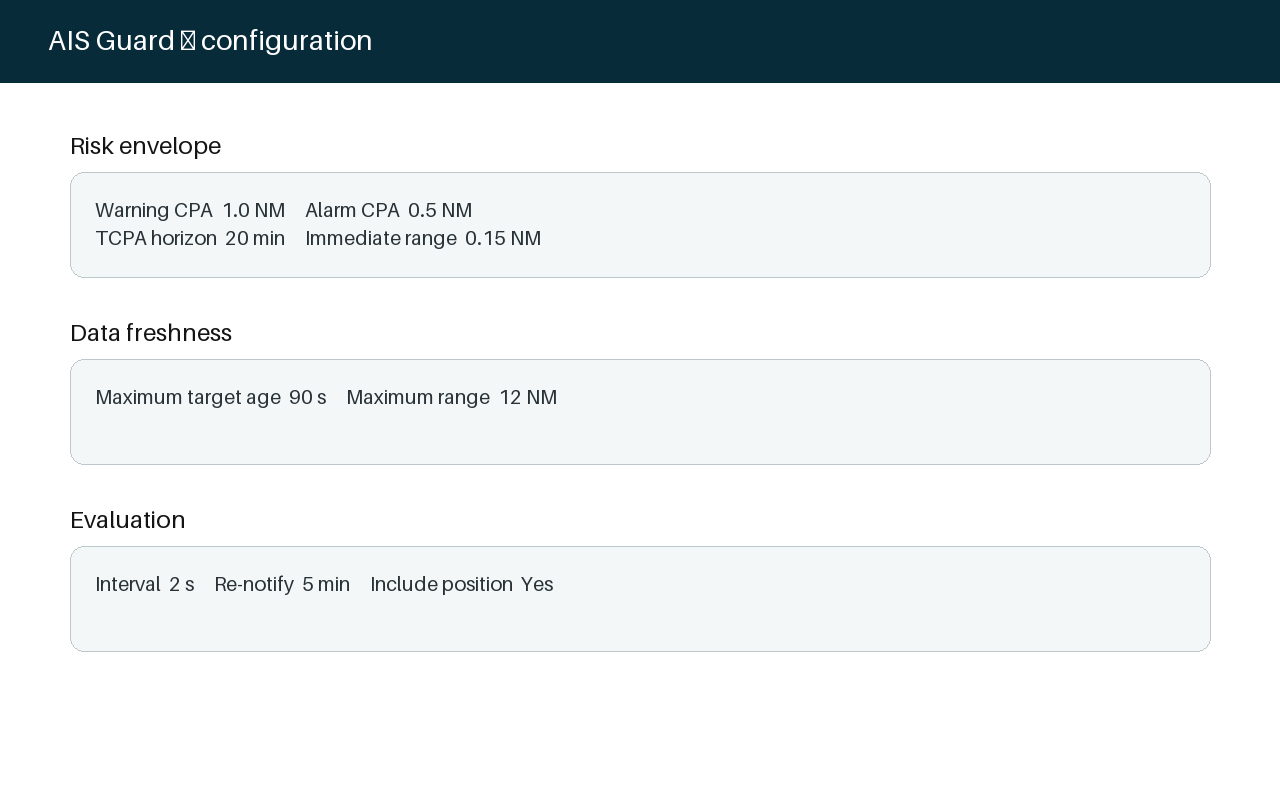
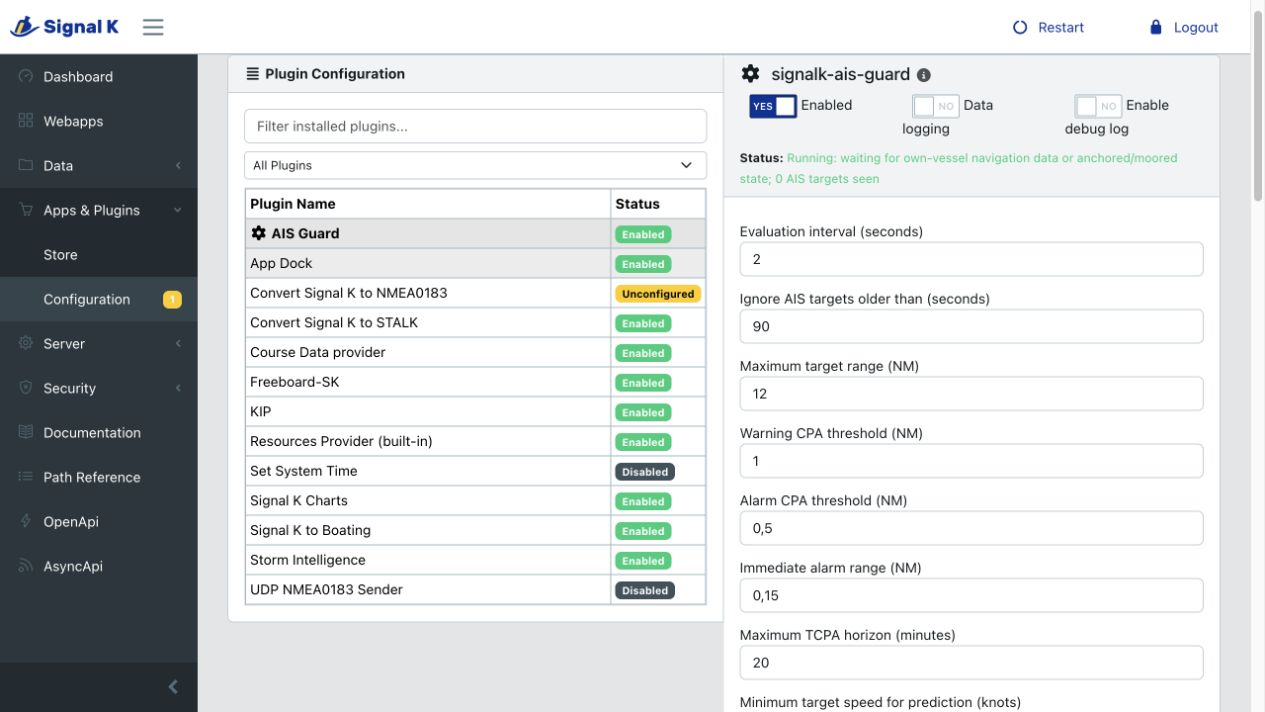
Improve documentation diagrams and screenshots

diff --git a/docs/architecture.md b/docs/architecture.md
@@ -8,7 +8,25 @@ Runtime dependencies remain zero. `plugin/index.js` owns the Signal K lifecycle,
 
 ## Data flow
 
-`Signal K deltas -> bounded vessel histories -> analytical CPA/TCPA + registered AGTPI predictors -> common risk classifier -> majority ensemble -> notifications/API -> WebApp + Plotter Extension + ResourceSet overlay`
+```mermaid
+flowchart LR
+  SK[Signal K vessel deltas] --> Fresh{Navigation fresh?}
+  Fresh -- no --> Unknown[Abstain / unknown]
+  Fresh -- yes --> Hist[Bounded vessel histories]
+  Hist --> CPA[Analytical CPA/TCPA]
+  Hist --> Pred[Registered AGTPI predictors]
+  CPA --> Common[Common threshold classifier]
+  Pred --> Norm[Validate, normalize, confidence gate]
+  Norm --> Common
+  Common --> Vote[Ordinal majority and quorum]
+  Vote -- no quorum or no majority --> CPA
+  Vote --> Risk[Final advisory risk]
+  CPA --> Risk
+  Risk --> Notify[Managed Signal K notifications]
+  Risk --> API[Read-only targets API]
+  API --> Web[Companion WebApp]
+  API --> Plotter[Plotter Extension and ResourceSet]
+```
 
 Own vessel and AIS contacts consume `navigation.position`, `navigation.speedOverGround`, and `navigation.courseOverGroundTrue`. Own vessel additionally consumes `navigation.anchor.state`, `navigation.anchor.position`, selected anchor-watch metadata, and `navigation.state` so collision guarding remains operational in anchored/moored station-keeping modes. Identity metadata (`name`, `mmsi`) is presentation-only. Navigation freshness is derived from navigation observation timestamps, not identity updates.
 
@@ -56,6 +74,16 @@ Any numerical change to a predictor requires a predictor-version change when sem
 
 The `research/` tree is intentionally outside the Signal K runtime but imports predictor modules directly from `plugin/predictors/`. The offline flow is:
 
-`source AIS -> explicit mapping/unit normalization -> canonical JSONL -> validation/statistics -> causal encounter cases -> group-level split -> production AGTPI predictors -> trajectory/risk metrics -> provenance manifest`.
+```mermaid
+flowchart LR
+  Source[Source AIS] --> Map[Versioned field and unit mapping]
+  Map --> Canon[Canonical JSONL observations]
+  Canon --> Validate[Validation and statistics]
+  Validate --> Cases[Causal encounter cases]
+  Cases --> Split[Group-level deterministic split]
+  Split --> Production[Production AGTPI predictors]
+  Production --> Metrics[Trajectory and risk metrics]
+  Metrics --> Manifest[Provenance manifest and checksums]
+```
 
 This prevents research-only copies of predictor mathematics from drifting away from operational code. Dataset adapters and evaluation code may evolve independently of the plugin lifecycle, while predictor identity/version and AGTPI report semantics remain shared. Research outputs are artifacts, not plugin state, and should not be packaged as authoritative model claims without the protocol in `reproducibility.md`.

diff --git a/docs/getting_started.md b/docs/getting_started.md
@@ -2,11 +2,15 @@
 
 AIS Guard continuously evaluates AIS contacts relative to own vessel. Classical CPA/TCPA is always available; the optional predictor ensemble is disabled by default.
 
+![AIS Guard plugin configuration in Signal K](screenshots/configuration.png)
+
 A useful assessment requires fresh own-vessel and target position, SOG, and true COG. Name and MMSI are identification metadata only. Commission initially with synthetic/replay or known low-risk encounters and confirm converging, opening, stale, immediate-range, and notification-clear behavior.
 
 After validating the analytical path, enable `predictiveAiEnabled`. The default ensemble registers three AGTPI v1 predictors: constant velocity, constant turn rate, and adaptive turn/acceleration. At least `predictionMinimumVotes` eligible reports are required; otherwise the system falls back to analytical CPA/TCPA.
 
 Use the WebApp to inspect vote counts and per-predictor disagreement. Before tuning, read [Risk Model](risk_model.md), [Predictive Intelligence](predictive_intelligence.md), [Trajectory Predictor Interface](trajectory_predictor_interface.md), [Configuration](configuration.md), and [Safety](safety.md).
+
+Open the companion WebApp from the Signal K **Webapps** page. On a default local installation its URL is `http://localhost:3000/signalk-ais-guard/`; use HTTPS only when TLS is configured in front of Signal K.
 
 
 ## Using AIS Guard at anchor or on a mooring

diff --git a/docs/testing.md b/docs/testing.md
@@ -6,6 +6,12 @@ The automated suite covers plugin lifecycle/schema defaults, analytical geometry
 
 Release candidates must pass `npm ci --ignore-scripts`, `npm run build`, `npm test`, `npm run lint`, `npm audit --audit-level=high`, and `npm pack --dry-run`.
 
+## Local Signal K integration smoke test
+
+Pack the workspace with `npm pack`, install that tarball into a disposable or development Signal K instance, and restart the server. In **Apps & Plugins → Configuration**, confirm that AIS Guard is enabled, its complete schema renders, and its initial status reports that it is waiting for navigation data. Open `/signalk-ais-guard/` and exercise sort direction, risk filtering, and search; the page must continue refreshing without browser console errors. Verify `/plugins/signalk-ais-guard/targets` through the WebApp or an authenticated read-only request.
+
+The screenshots in this documentation were captured from this flow on Signal K Server 2.31.1 with Node.js 24.19.0. The default development endpoint is HTTP; `https://localhost:3000` is valid only when a TLS proxy or Signal K TLS configuration is present.
+
 ## Predictor conformance
 
 Every AGTPI predictor requires deterministic fixtures for success and abstention, finite-unit checks, confidence bounds, malformed-history handling, and evidence that input is not mutated. Predictors with learned parameters additionally require versioned model provenance and validation artifacts.

diff --git a/docs/anchor_watch_integration.md b/docs/anchor_watch_integration.md
@@ -16,6 +16,20 @@ AIS Guard also consumes `navigation.state`. Values `anchored` and `moored` are t
 
 ## Effective own-vessel model
 
+```mermaid
+flowchart TD
+  Position[Fresh own position] --> Explicit{Explicit anchored or moored evidence?}
+  Explicit -- yes --> Zero[Effective zero-speed own model]
+  Explicit -- no --> Motion{Fresh SOG and true COG?}
+  Motion -- yes --> Measured[Measured underway motion]
+  Motion -- no --> Near{Measured near-zero SOG?}
+  Near -- yes --> Zero
+  Near -- no --> Abstain[Own-vessel evidence insufficient]
+  Zero --> AIS[AIS collision assessment remains active]
+  Measured --> AIS
+  Abstain --> Unknown[Risk unknown; never inferred safe]
+```
+
 When an explicit anchored or moored state is present and `stationKeepingForceZeroOwnSpeed=true`, the collision engine evaluates incoming AIS traffic against an effective own-vessel velocity of zero at the latest own position. The course is set to a neutral numerical value because course is undefined at zero velocity and has no effect on the analytical velocity vector.
 
 For trajectory predictors, recent own-vessel history is transformed into a stationary-motion history while preserving observation times and positions. This prevents GPS-jitter SOG/COG from being interpreted as intentional own-vessel manoeuvring while retaining temporal evidence for predictor confidence calculations. Target trajectories remain unchanged.

diff --git a/docs/risk_model.md b/docs/risk_model.md
@@ -18,6 +18,20 @@ When predictive mode is enabled, each registered predictor estimates CPA/TCPA in
 
 Majority voting is categorical. The exposed median predicted CPA/TCPA does not determine risk.
 
+```mermaid
+flowchart TD
+  Reports[Normalized predictor reports] --> Gate[Keep eligible reports at or above confidence threshold]
+  Gate --> Quorum{Eligible reports meet quorum?}
+  Quorum -- no --> Fallback[Use analytical CPA/TCPA]
+  Quorum -- yes --> Alarm{Strict majority alarm?}
+  Alarm -- yes --> A[Alarm]
+  Alarm -- no --> Warn{Strict majority warn-or-alarm?}
+  Warn -- yes --> W[Warning]
+  Warn -- no --> None{Strict majority none?}
+  None -- yes --> N[None]
+  None -- no --> Fallback
+```
+
 ## Validity limits
 
 Analytical CPA/TCPA assumes constant velocity. Built-in predictors relax selected assumptions but remain extrapolations of observed motion. Majority voting cannot compensate for common-mode input errors or correlated model assumptions. A clear result therefore means only that the configured criteria were not satisfied by the admissible evidence at that instant.

diff --git a/README.md b/README.md
@@ -2,6 +2,8 @@
 
 `signalk-ais-guard` is a dependency-free Signal K server plugin for continuous advisory AIS collision-risk assessment. Version 1.6.0 combines analytical CPA/TCPA with an optional **pluggable trajectory-predictor ensemble** governed by the versioned AIS Guard Trajectory Predictor Interface (AGTPI) v1.
 
+![AIS Guard live target monitor](docs/screenshots/overview.png)
+
 Predictors are deliberately separated from risk thresholds: each predictor reports CPA/TCPA/confidence or abstains; AIS Guard applies one common classifier; the final predictive risk is assessed by ordinal majority vote. If the configured predictor quorum is unavailable, analytical CPA/TCPA is used as fallback.
 
 Three transparent predictors ship by default: `constant-velocity`, `constant-turn-rate`, and `adaptive-turn-acceleration`. They are deterministic kinematic models, not trained AI/ML models. Future predictors can register through the documented interface without modifying ensemble/voting code.

diff --git a/docs/webapp.md b/docs/webapp.md
@@ -2,6 +2,8 @@
 
 The bundled WebApp is a read-only analytical view over `/plugins/signalk-ais-guard/targets`. Collision and prediction algorithms remain server-side.
 
+![AIS Guard companion WebApp waiting for live navigation data](screenshots/overview.png)
+
 Each target exposes identity, range, analytical CPA/TCPA, ensemble median predicted CPA/TCPA/confidence, final risk source, vote counts, SOG/COG, observation age, and an array of standardized per-predictor reports. The table displays ensemble vote counts as `A/W/N` alongside the source so disagreement is visible.
 
 Sorting remains available by risk, distance, analytical CPA/TCPA, predicted CPA/TCPA, prediction confidence, name, MMSI, speed, and age. Search and risk filters affect presentation only.

diff --git a/docs/trajectory_predictor_interface.md b/docs/trajectory_predictor_interface.md
@@ -34,6 +34,18 @@ The registry rejects malformed predictors and duplicate IDs. Registration is ava
 
 ## Predictor input contract
 
+```mermaid
+flowchart LR
+  Registry[Validated predictor registry] --> Input[Own record, target record, options, evaluation time]
+  Input --> Predictor[AGTPI v1 predictor]
+  Predictor -->|status: ok| Report[CPA, TCPA, confidence, optional paths]
+  Predictor -->|status: abstain| Abstain[Reasoned abstention]
+  Report --> Normalize[Core validation and normalization]
+  Abstain --> Normalize
+  Normalize --> Classifier[Common core risk classifier]
+  Classifier --> Ensemble[Core ordinal majority]
+```
+
 `predict(input)` is synchronous in AGTPI v1 and receives:
 
 ```js

diff --git a/CHANGELOG.md b/CHANGELOG.md
@@ -1,5 +1,12 @@
 # Changelog
 
+## [Unreleased]
+
+### Documentation
+- Added runtime, ensemble, predictor-interface, station-keeping, and research-pipeline diagrams.
+- Replaced documentation images with screenshots captured from the packaged plugin running in Signal K Server 2.31.1.
+- Documented the default local WebApp URL and clarified that HTTPS requires a configured TLS endpoint.
+
 ## [1.6.0] - 2026-09-01
 
 ### Added

diff --git a/docs/configuration.md b/docs/configuration.md
@@ -1,5 +1,7 @@
 # Configuration
 
+![AIS Guard configuration schema rendered by Signal K](screenshots/configuration.png)
+
 ## Principle
 
 Configuration is part of the computational method. Every schema property has a default to support deterministic Signal K registry activation. Internally, Signal K navigation values remain SI; operator-facing thresholds use nautical miles, knots, minutes, and degrees where appropriate.
